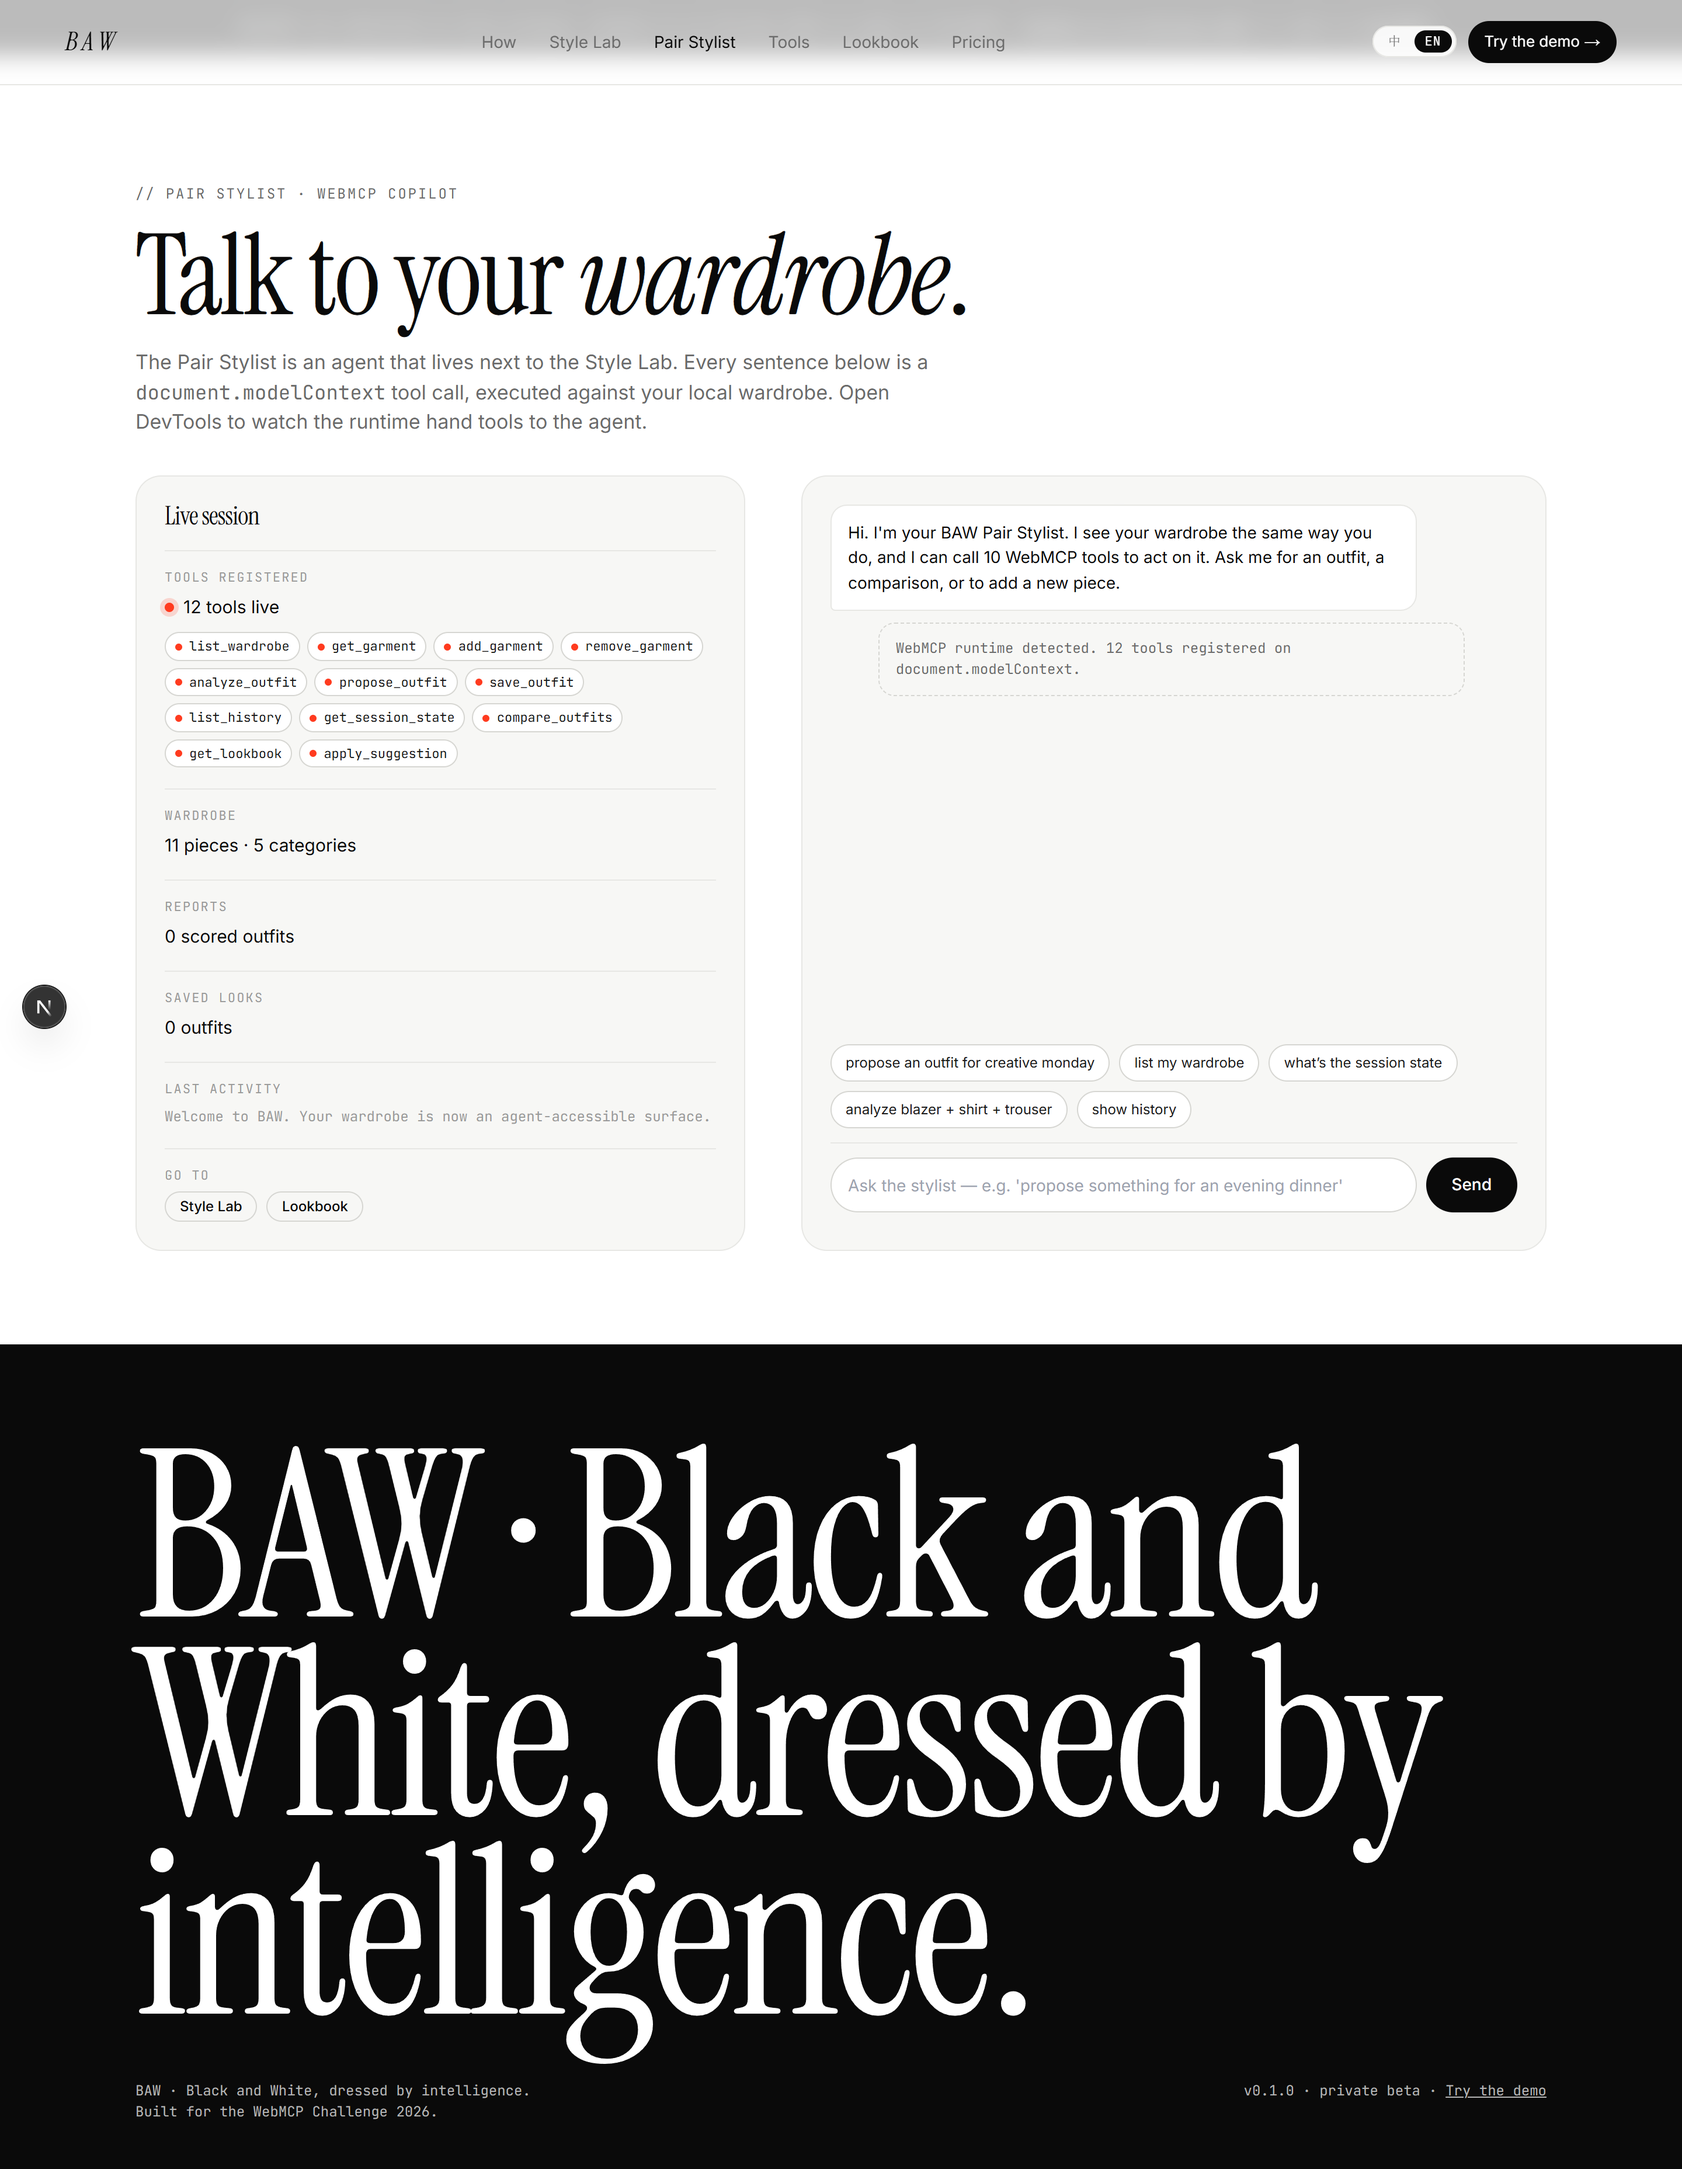
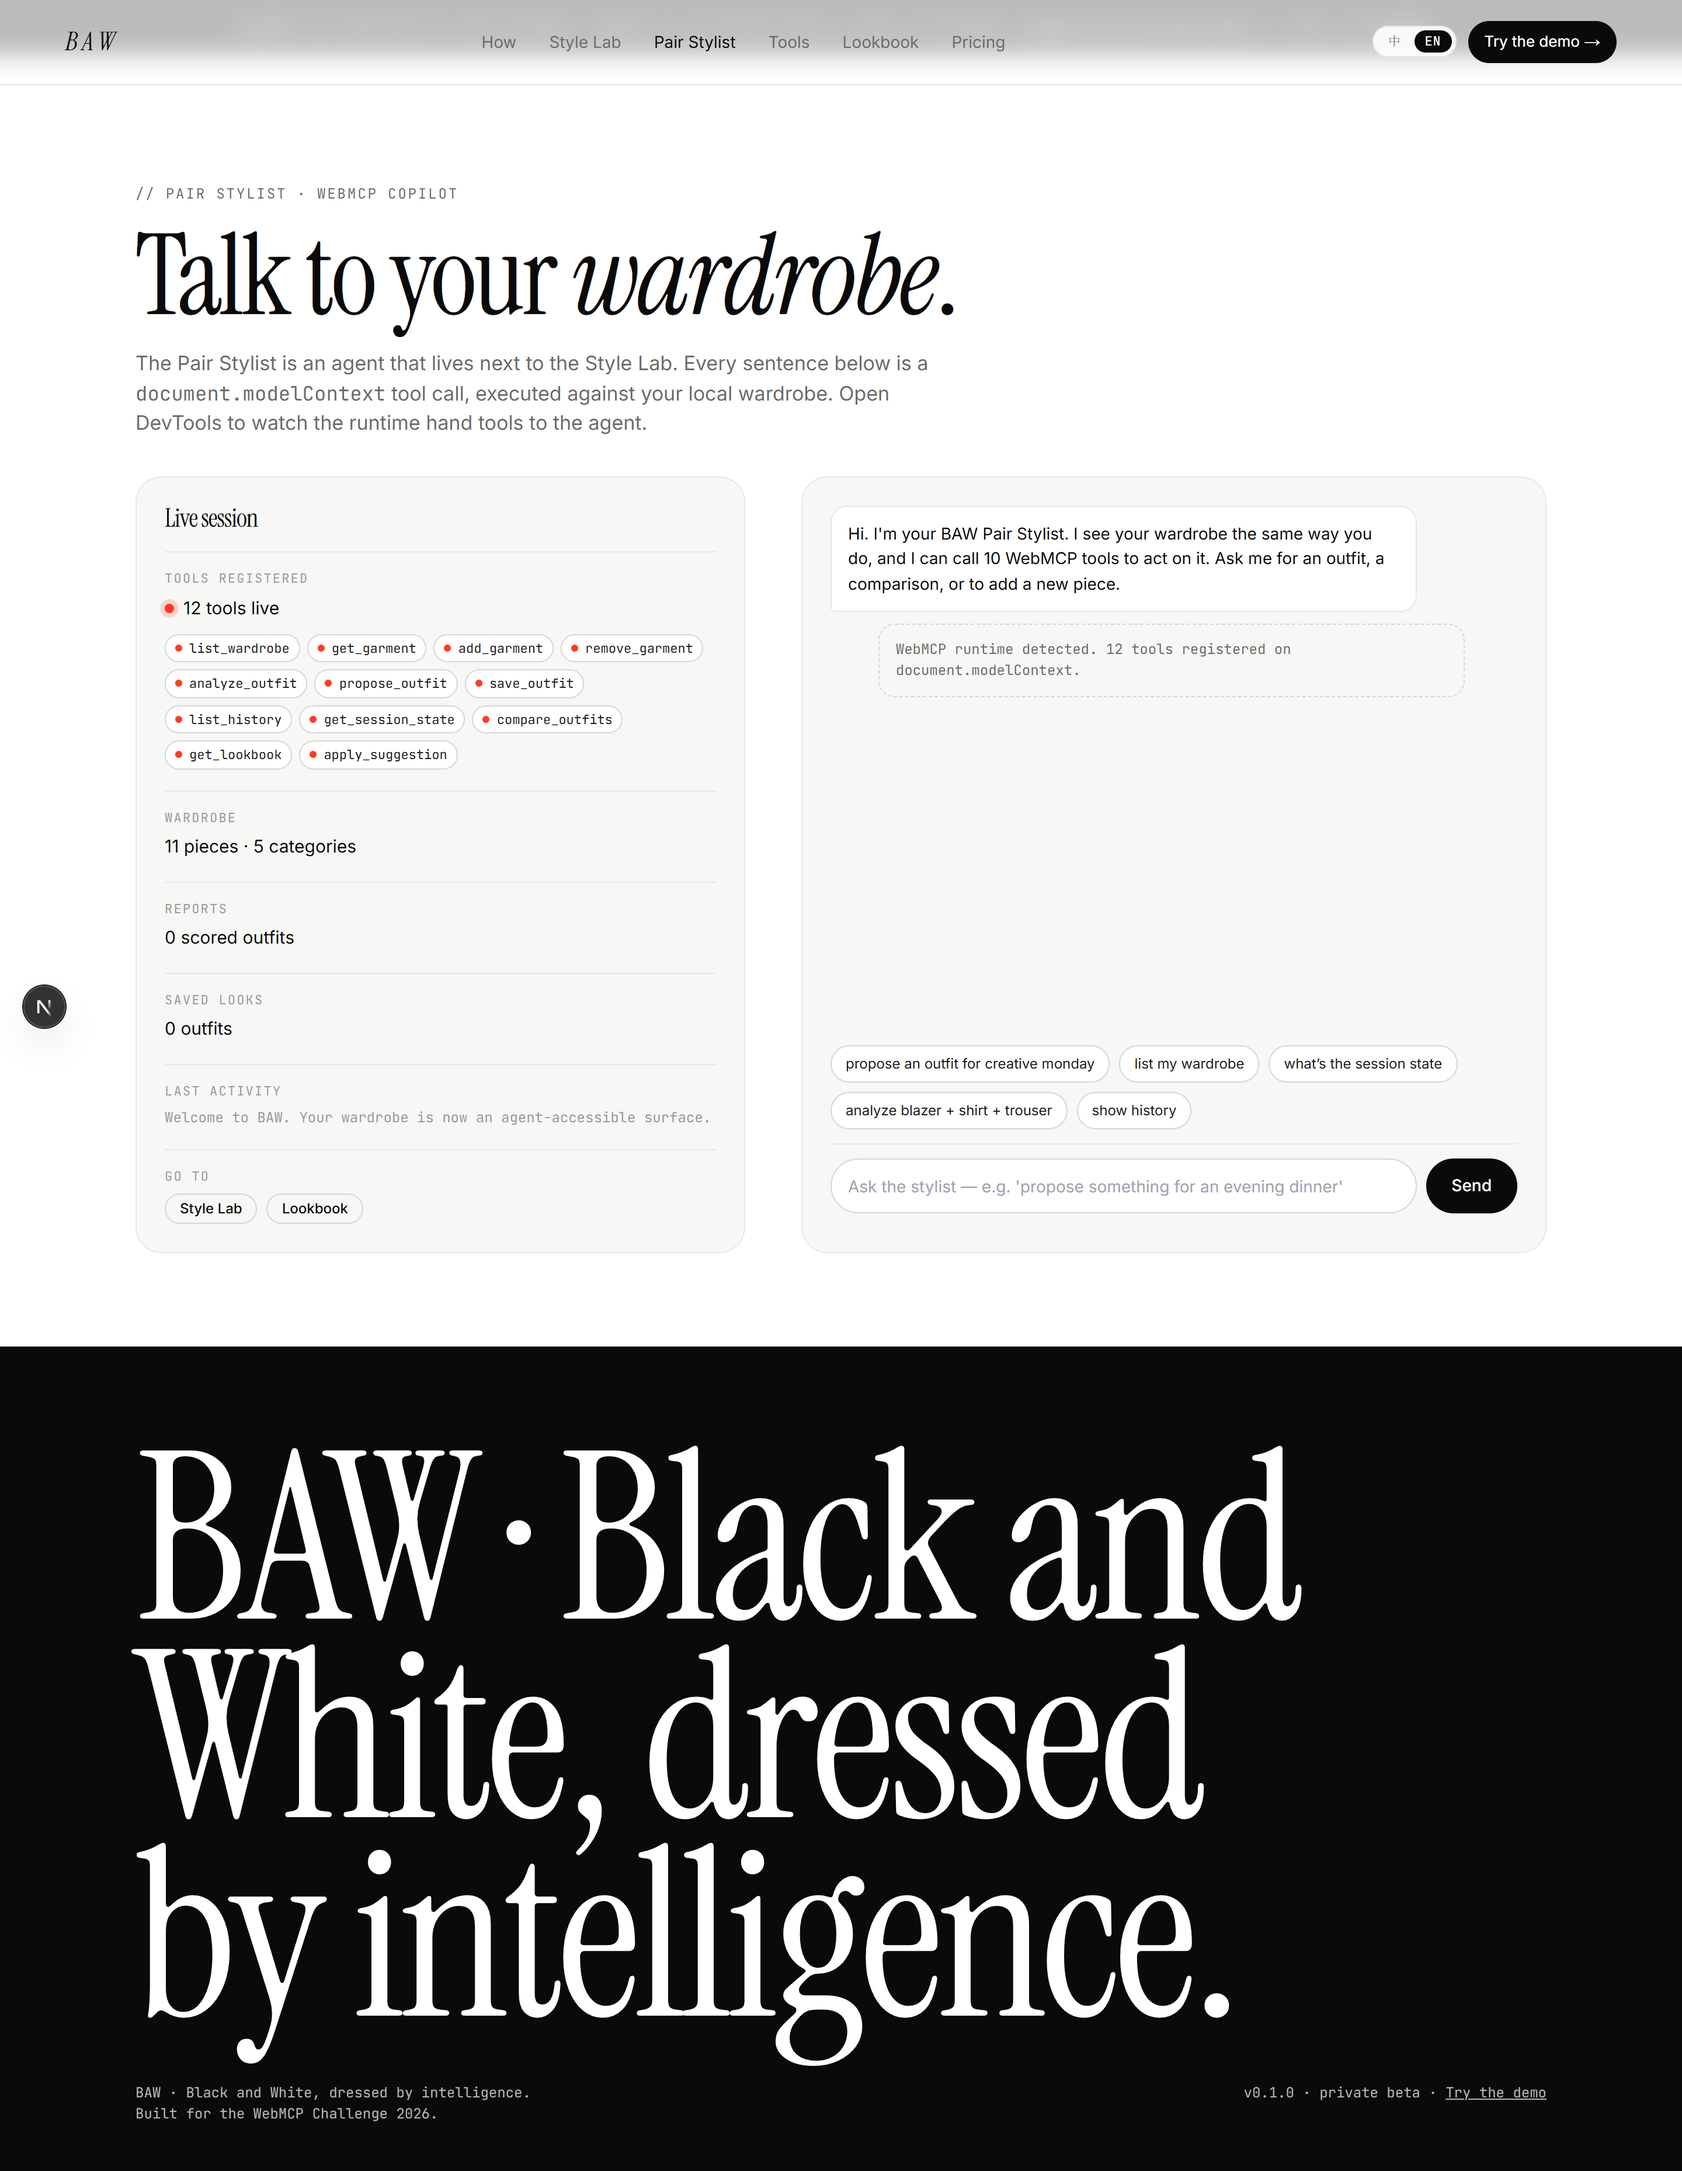
polish: refined motion + selection + cards + buttons
- ::selection red/black
- WebKit + Firefox scrollbar (subtle ink tint)
- text-wrap: balance on display headings
- button :active scale 0.98
- input :focus-visible ring + border swap
- --shadow-sm / --md / --lg tokens
- --ease cubic-bezier(0.4, 0, 0.2, 1) as the project default
- plan / pillar / step / look cards: hover lift + shadow + border-color
- pillar .pp-meta .bar animates width on hover (60px → 90px)
- btn-primary / btn-accent: hover lift + drop shadow
- re-snapped 12 high-DPR screenshots (zh + en)

diff --git a/app/globals.css b/app/globals.css
@@ -23,6 +23,10 @@
     --gutter: clamp(20px, 4vw, 56px);
     --radius: 14px;
     --radius-lg: 22px;
+    --shadow-sm: 0 1px 2px rgba(10, 10, 10, 0.04);
+    --shadow-md: 0 6px 24px -8px rgba(10, 10, 10, 0.12);
+    --shadow-lg: 0 20px 60px -20px rgba(10, 10, 10, 0.18);
+    --ease: cubic-bezier(0.4, 0, 0.2, 1);
   }
 
   html {
@@ -30,6 +34,36 @@
     -moz-osx-font-smoothing: grayscale;
     text-rendering: optimizeLegibility;
     scroll-behavior: smooth;
+    font-feature-settings: 'kern' 1, 'liga' 1, 'calt' 1;
+  }
+
+  ::selection {
+    background: var(--ink);
+    color: var(--paper);
+  }
+  ::-moz-selection {
+    background: var(--ink);
+    color: var(--paper);
+  }
+
+  ::-webkit-scrollbar {
+    width: 12px;
+    height: 12px;
+  }
+  ::-webkit-scrollbar-track {
+    background: transparent;
+  }
+  ::-webkit-scrollbar-thumb {
+    background: var(--line-2);
+    border-radius: 6px;
+    border: 3px solid var(--paper);
+  }
+  ::-webkit-scrollbar-thumb:hover {
+    background: var(--muted-2);
+  }
+  * {
+    scrollbar-color: var(--line-2) transparent;
+    scrollbar-width: thin;
   }
 
   body {
@@ -39,6 +73,7 @@
     line-height: 1.5;
     font-feature-settings: 'cv11', 'ss01', 'ss03';
     overflow-x: hidden;
+    -webkit-tap-highlight-color: transparent;
   }
 
   h1, h2, h3, h4,
@@ -46,8 +81,9 @@
   .step h3, .demo-left h3, .result-head h4, .cta-strip h2, .plan-price strong {
     font-family: var(--font-instrument-serif), 'Source Han Serif SC', 'Noto Serif SC', 'Songti SC', serif;
     font-weight: 400;
-    letter-spacing: -0.02em;
-    line-height: 0.95;
+    letter-spacing: -0.025em;
+    line-height: 0.96;
+    text-wrap: balance;
   }
 
   h1 em, h2 em, h3 em, h4 em, .display em, em.ital, em {
@@ -55,10 +91,17 @@
     font-weight: 400;
   }
 
-  a { color: inherit; text-decoration: none; }
-  button { font: inherit; color: inherit; background: none; border: 0; cursor: pointer; }
-  input, textarea { font: inherit; color: inherit; }
+  a { color: inherit; text-decoration: none; transition: color 0.18s var(--ease); }
+  button { font: inherit; color: inherit; background: none; border: 0; cursor: pointer; transition: transform 0.15s var(--ease), color 0.18s var(--ease), background 0.18s var(--ease), border-color 0.18s var(--ease); }
+  button:active:not(:disabled) { transform: scale(0.98); }
+  input, textarea, select { font: inherit; color: inherit; transition: border-color 0.18s var(--ease), box-shadow 0.18s var(--ease); }
   img, svg { display: block; max-width: 100%; }
+
+  input:focus-visible, textarea:focus-visible, select:focus-visible {
+    outline: none;
+    border-color: var(--ink);
+    box-shadow: 0 0 0 3px rgba(10, 10, 10, 0.08);
+  }
 }
 
 @layer components {
@@ -156,15 +199,16 @@
     border-radius: 999px;
     font-size: 14px;
     font-weight: 500;
-    transition: background 0.15s ease, border-color 0.15s ease, color 0.15s ease;
     line-height: 1;
+    position: relative;
+    overflow: hidden;
   }
   .btn-primary { background: var(--ink); color: var(--paper); }
-  .btn-primary:hover { background: var(--ink-soft); }
+  .btn-primary:hover { background: var(--ink-soft); transform: translateY(-1px); box-shadow: 0 6px 16px -4px rgba(10, 10, 10, 0.3); }
   .btn-ghost { background: transparent; color: var(--ink); border: 1px solid var(--line-2); }
-  .btn-ghost:hover { border-color: var(--ink); }
+  .btn-ghost:hover { border-color: var(--ink); background: var(--paper-2); }
   .btn-accent { background: var(--accent); color: var(--paper); }
-  .btn-accent:hover { background: #e22f12; }
+  .btn-accent:hover { background: #e22f12; transform: translateY(-1px); box-shadow: 0 6px 16px -4px rgba(255, 59, 31, 0.4); }
 
   /* ---------- Hero ---------- */
   .hero {
@@ -367,6 +411,19 @@
   }
   .pillar h3 { font-size: 32px; }
   .pillar p { color: var(--muted); margin-top: 18px; font-size: 15px; line-height: 1.6; }
+  .pillar {
+    background: var(--paper-2);
+    border: 1px solid var(--line);
+    border-radius: var(--radius-lg);
+    padding: 32px;
+    min-height: 320px;
+    transition: transform 0.2s var(--ease), box-shadow 0.2s var(--ease), border-color 0.2s var(--ease);
+  }
+  .pillar:hover {
+    transform: translateY(-2px);
+    box-shadow: var(--shadow-md);
+    border-color: var(--line-2);
+  }
   .pillar .pp-meta {
     margin-top: 24px;
     display: flex; align-items: center; gap: 10px;
@@ -374,7 +431,8 @@
     font-size: 12px;
     color: var(--ink);
   }
-  .pillar .pp-meta .bar { height: 2px; width: 60px; background: var(--ink); }
+  .pillar .pp-meta .bar { height: 2px; width: 60px; background: var(--ink); transition: width 0.4s var(--ease); }
+  .pillar:hover .pp-meta .bar { width: 90px; }
 
   /* ---------- Privacy callout ---------- */
   .privacy { background: var(--ink); color: var(--paper); border-top: 0; }
@@ -414,7 +472,8 @@
   /* ---------- Steps ---------- */
   .steps { display: grid; grid-template-columns: repeat(3, 1fr); gap: 24px; }
   @media (max-width: 880px) { .steps { grid-template-columns: 1fr; } }
-  .step { background: var(--paper-2); border-radius: var(--radius-lg); padding: 32px; min-height: 320px; }
+  .step { background: var(--paper-2); border-radius: var(--radius-lg); padding: 32px; min-height: 320px; transition: transform 0.2s var(--ease), box-shadow 0.2s var(--ease); }
+  .step:hover { transform: translateY(-2px); box-shadow: var(--shadow-md); }
   .step-num { font-family: var(--font-jetbrains-mono), monospace; color: var(--muted-2); font-size: 12px; }
   .step h3 { font-size: 32px; margin-top: 12px; }
   .step p { color: var(--muted); margin-top: 16px; font-size: 15px; line-height: 1.6; }
@@ -441,10 +500,10 @@
     overflow: hidden;
     position: relative;
     display: flex; flex-direction: column;
-    transition: transform 0.2s ease;
+    transition: transform 0.25s var(--ease), box-shadow 0.25s var(--ease), border-color 0.25s var(--ease);
     cursor: pointer;
   }
-  .look:hover { transform: translateY(-4px); }
+  .look:hover { transform: translateY(-4px); box-shadow: var(--shadow-md); border-color: var(--line-2); }
   .look .look-img { flex: 1; background: var(--paper-3); position: relative; }
   .look .look-img::after {
     content: ''; position: absolute; inset: 0;
@@ -466,6 +525,12 @@
     border-radius: var(--radius-lg);
     padding: 32px;
     display: flex; flex-direction: column; gap: 16px;
+    transition: transform 0.2s var(--ease), box-shadow 0.2s var(--ease), border-color 0.2s var(--ease);
+  }
+  .plan:hover {
+    transform: translateY(-2px);
+    box-shadow: var(--shadow-md);
+    border-color: var(--line-2);
   }
   .plan.featured { background: var(--ink); color: var(--paper); }
   .plan.featured .eyebrow { color: var(--muted-2); }
